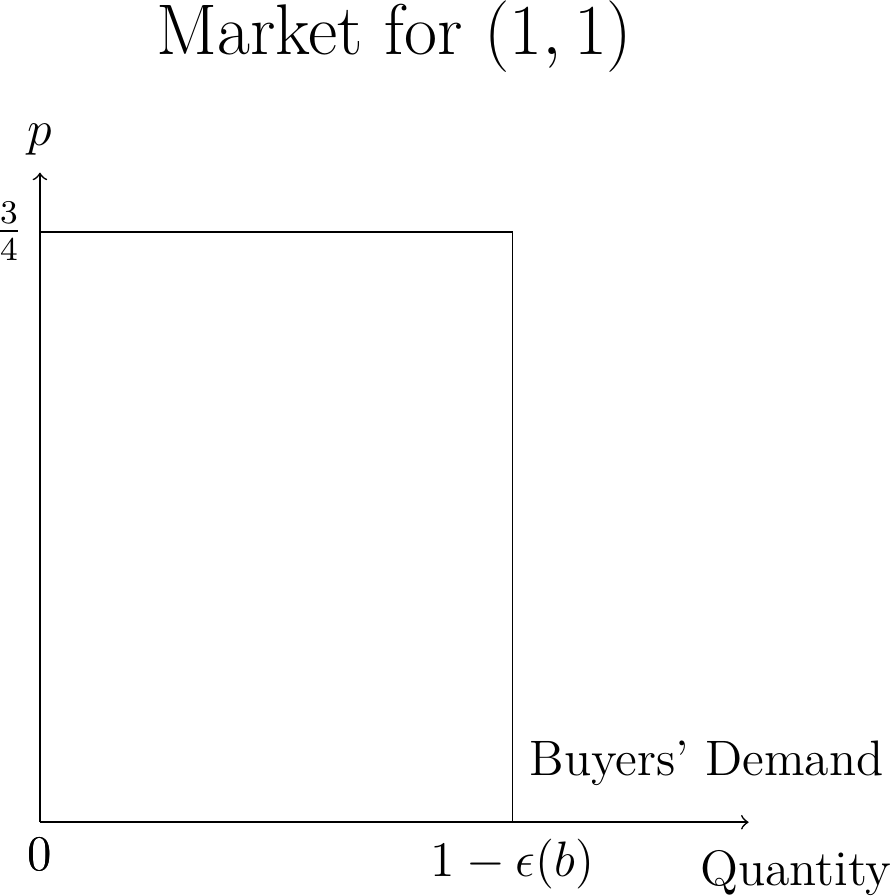
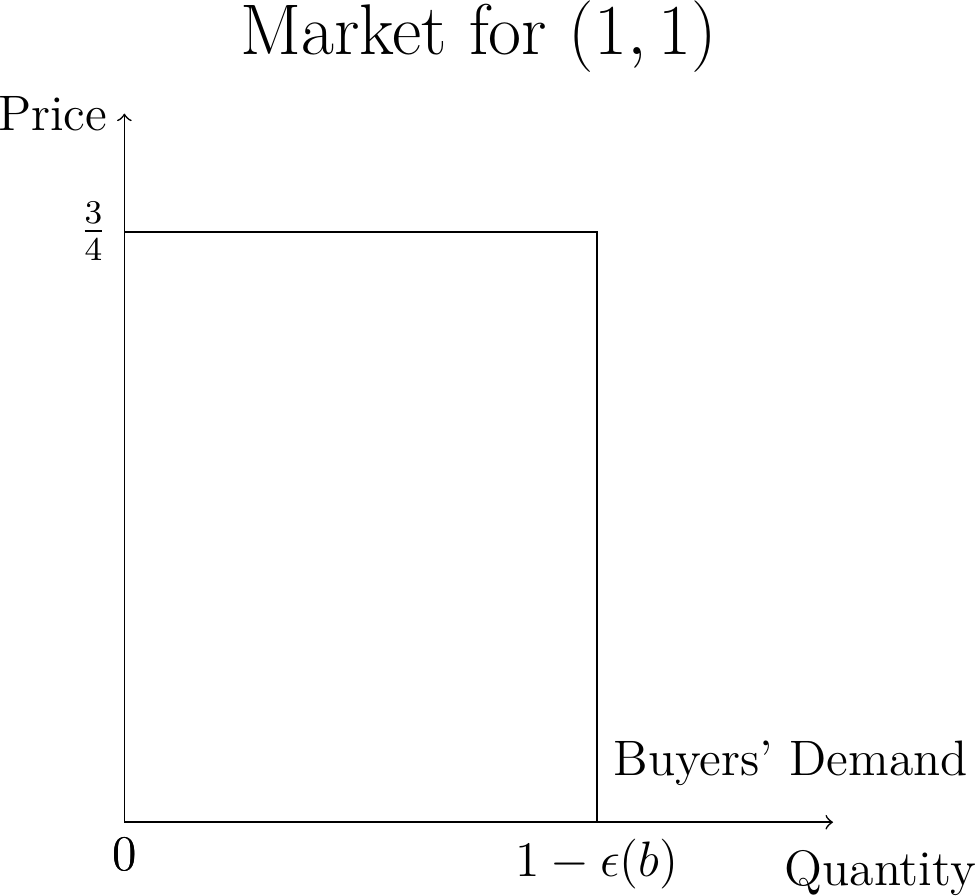
me

diff --git a/docs/slides/tikz_charts/jmp.tex b/docs/slides/tikz_charts/jmp.tex
@@ -366,7 +366,7 @@ $ $
 	
 	\node [below] at (6.4,-.1) {Quantity};
 	
-	\draw [->] (0,0) node [below] {0} -- (0,0) -- (0,5.5) node [above] {$p$};
+	\draw [->] (0,0) node [below] {0} -- (0,0) -- (0,6) node [left] {Price};
 	
 	
 	\end{tikzpicture}
@@ -387,7 +387,7 @@ $ $
 	
 	\node [below] at (6.4,-.1) {Quantity};
 	
-	\draw [->] (0,0) node [below] {0} -- (0,0) -- (0,5.5) node [above] {$p$};
+	\draw [->] (0,0) node [below] {0} -- (0,0) -- (0,6) node [left] {Price};
 	
 	\draw (0,5)--(4,5)--(4,0);
 	
@@ -414,7 +414,7 @@ $ $
 
 	\node [below] at (6.4,-.1) {Quantity};
 	
-	\draw [->] (0,0) node [below] {0} -- (0,0) -- (0,5.5) node [above] {$p$};
+	\draw [->] (0,0) node [below] {0} -- (0,0) -- (0,6) node [left] {Price};
 	
 	\draw (0,5)--(4,5)--(4,0);
 	
@@ -451,7 +451,7 @@ $ $
 
 	\node [below] at (6.4,-.1) {Quantity};
 	
-	\draw [->] (0,0) node [below] {0} -- (0,0) -- (0,5.5) node [above] {$p$};
+	\draw [->] (0,0) node [below] {0} -- (0,0) -- (0,6) node [left] {Price};
 	
 	\draw (0,5)--(4,5)--(4,0);
 	
